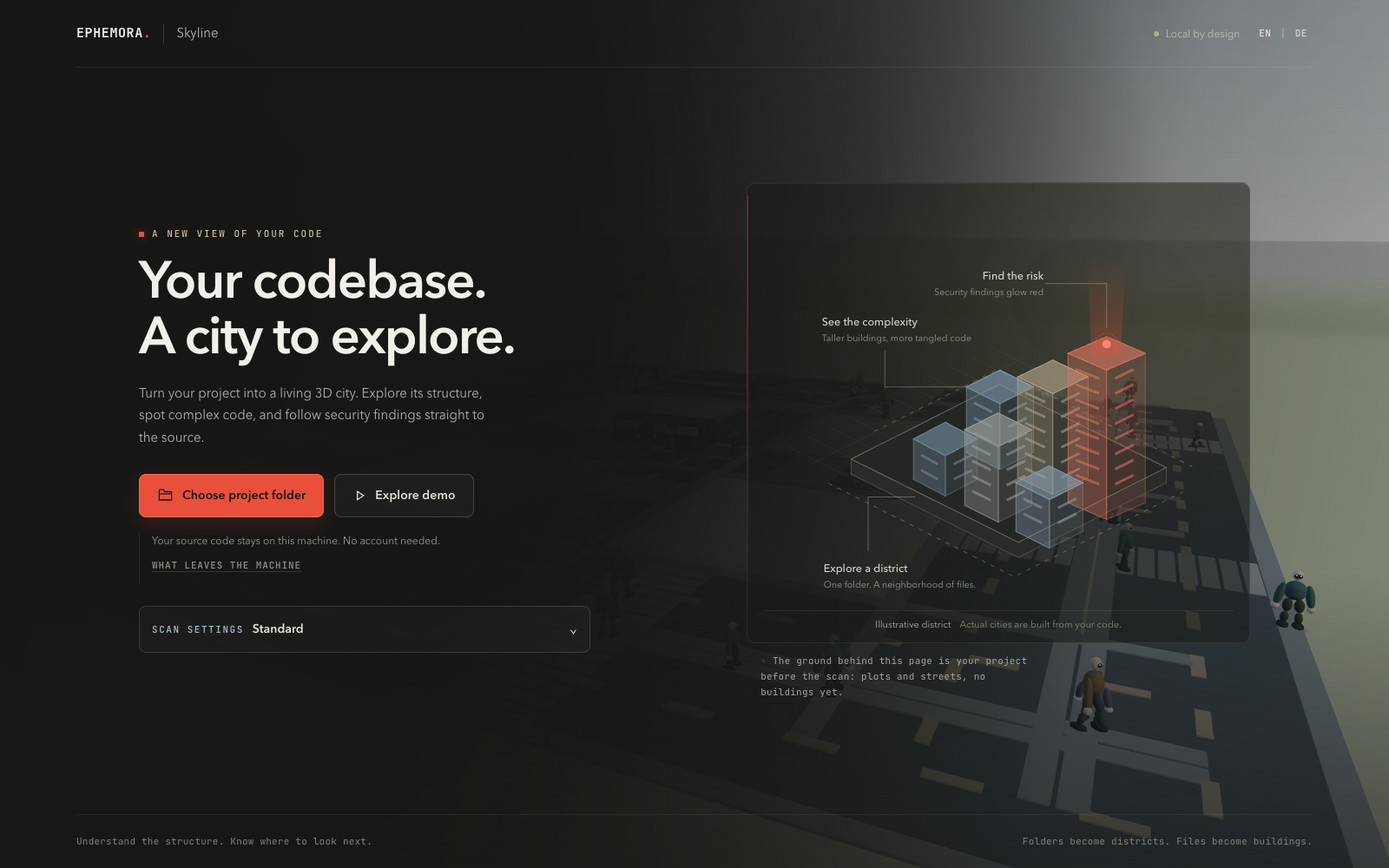
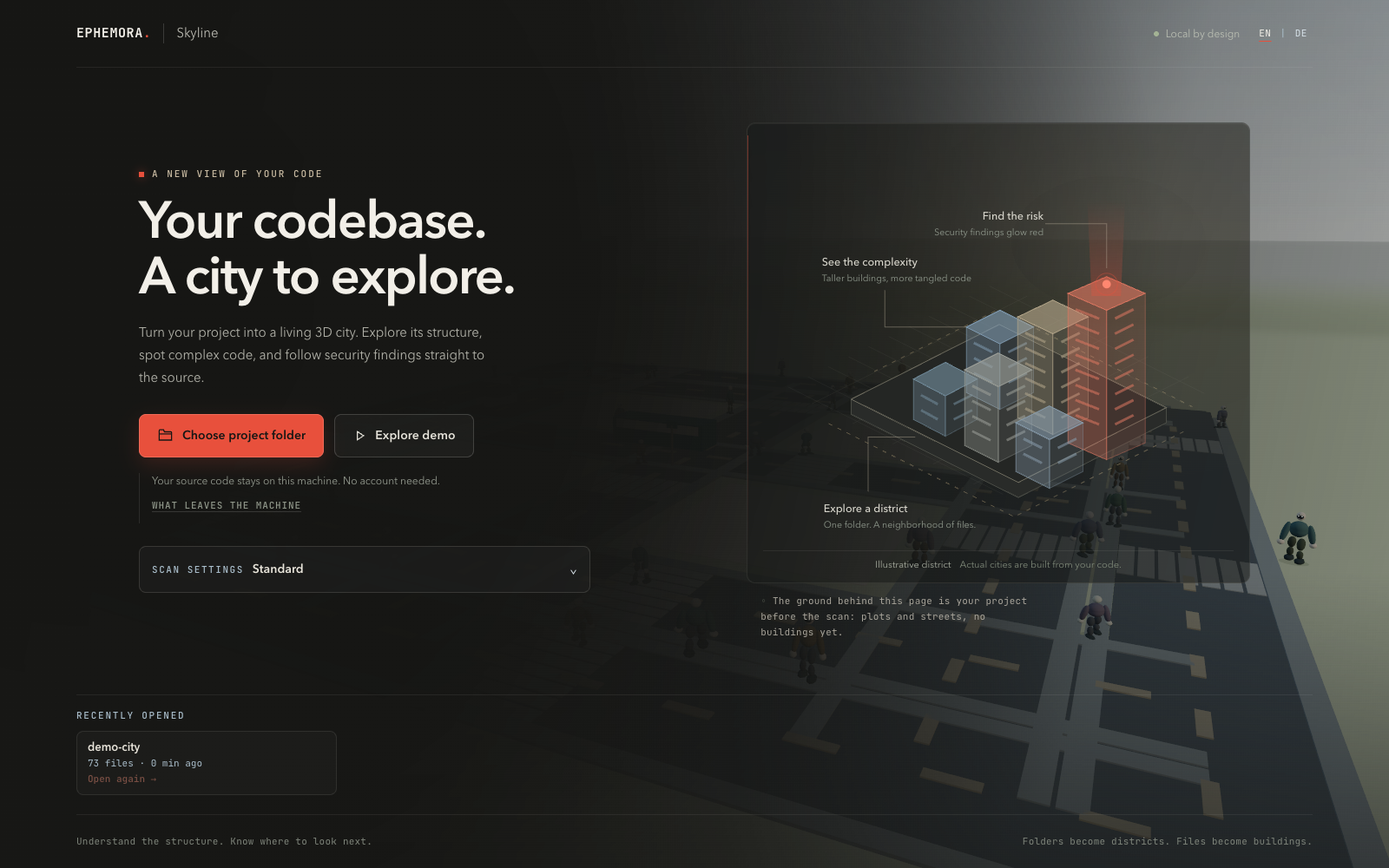
docs(surface): four claims the reader could not check are closed, two are made exact
The public surface was re-read line by line and every number traced to an
artifact. What did not hold:

- `hero.png` promised the row of the last city this browser opened and showed
  none — the shot had been taken on cleared storage. Re-shot after a real visit,
  so the frame now carries "RECENTLY OPENED · demo-city · 73 files · 0 min ago".
- The `.gitignore` pair was 16,711 against 550, measured on a tree that has since
  moved. Re-measured with the client's own skip-list and shape rule: **17,360**
  source-shaped files on disk, **392** the project calls source, 262 MB against
  3.4 MB. The stale pair was repeated in five places — README, CHANGELOG twice,
  two code comments and `.gitignore` itself — and all five now say the same.
- "225 rules" for the Semgrep registry had no artifact in this tree, only a
  comment repeating the number. The count is the registry's answer on the day of
  the scan; the licence is the reason it is not shipped, and that is what the
  sentence says now.
- The architecture block named a `Triage` component that is not a file, listed
  `sarif` and `result` under `routes/` where they are handlers of the index, and
  left `agent.ts` and `scripts/first-drive.mjs` unnamed.

Made exact: the guard sentence said "the two routes that execute anything" while
five routes carry the refusal, and the API table missed the two staged-copy
routes the privacy section already names — its row count is eighteen now, and
[…]

diff --git a/backend/tests/rule-packs.test.ts b/backend/tests/rule-packs.test.ts
@@ -18,8 +18,9 @@ import { existsSync, mkdirSync, writeFileSync } from "fs";
 /**
  * #41 — Regel-Packs.
  *
- * Der Aufhänger war gemessen: `semgrep --config p/security-audit` lädt 225
- * Regeln während des Scans von semgrep.dev, und die Semgrep Rules License v1.0
+ * Der Aufhänger ist eine Lizenz, keine Zahl: `semgrep --config p/security-audit`
+ * lädt seine Regeln während des Scans von semgrep.dev — wie viele an welchem Tag,
+ * das beantwortet die Registry, kein Artefakt in diesem Baum —, und die Semgrep Rules License v1.0
  * sagt dazu: "This license does not allow you to distribute the rules, or to
  * make them available to others as a service." Ein Bundling dieser Packs ins
  * Programm wäre also kein Formeldetail, sondern ein Verstoß. Gebündelt wird
@@ -149,7 +150,7 @@ describe("Regel-Pack ephemora-core (#41)", () => {
     expect(withPack.config.rulePacks).toEqual(["ephemora-core"]);
     expect(semgrepRuleDirs(withPack.config.rulePacks)[0]).toContain("ephemora-core");
 
-    // Offline ohne Pack: semgrep würde 225 Regeln von semgrep.dev ziehen
+    // Offline ohne Pack: semgrep würde seine Regeln von semgrep.dev ziehen
     process.env.SKYLINE_OFFLINE = "1";
     try {
       expect(resolveConfig().config.tools.semgrep).toBe(false);

diff --git a/backend/src/services/security/rule-packs.ts b/backend/src/services/security/rule-packs.ts
@@ -8,10 +8,12 @@ import type { FindingCategory } from "../../models/index.js";
  * Rule packs — a named, versioned bundle of semgrep rules that a scan can be
  * pointed at.
  *
- * The reason this exists is a measured one: `semgrep --config p/security-audit`
- * downloads 225 rules from semgrep.dev *during the scan*, and the Semgrep Rules
- * License v1.0 says in as many words "This license does not allow you to
- * distribute the rules, or to make them available to others as a service." So
+ * The reason this exists is a licence, not a count: `semgrep --config
+ * p/security-audit` fetches its rules from semgrep.dev *during the scan* — how
+ * many, on which day, is the registry's answer and no file in this repository
+ * can show it — and the Semgrep Rules License v1.0 says in as many words "This
+ * license does not allow you to distribute the rules, or to make them available
+ * to others as a service." So
  * the registry packs are not ours to ship. What we ship is rules we wrote and
  * own, tested against positive and negative fixtures, and a second root where
  * a user can put packs they fetched themselves.

diff --git a/frontend/tests/local-gitignore.test.tsx b/frontend/tests/local-gitignore.test.tsx
@@ -3,9 +3,10 @@
  * The folder's own .gitignore decides what is project source — before anything
  * is counted against the file cap.
  *
- * Measured on this repository: a scan of its own folder offered 16,711 source-
- * shaped files and 242 MB, of which 16,161 sat in local tooling folders the
- * project's .gitignore sets aside; the project itself is 550 files and 13,9 MB.
+ * Measured on this repository on 2026-10-12, with the walk rules the shipped
+ * client carries: a scan of its own folder offered 17,360 source-shaped files
+ * and 262 MB, of which 16,968 sat in local tooling folders the
+ * project's .gitignore sets aside; the project itself is 392 files and 3.4 MB.
  * The backend already skipped those paths, so the cap refused a folder for
  * files the scan would never have read. These checks hold the two pickers to
  * the same answer, because a folder that costs 31 s of reading in one picker

diff --git a/backend/tests/beleg-02-api-and-staging.test.ts b/backend/tests/beleg-02-api-and-staging.test.ts
@@ -30,8 +30,16 @@ describe("the API table (README.md:212-230)", () => {
     (m) => ({ method: m[1]!.toUpperCase(), path: m[2]! }),
   );
 
-  it("names fifteen routes, as many as the table has rows", () => {
-    expect(rows.length).toBe(16);
+  /**
+   * The count is the table's own shape, not a fact about the server — the two
+   * cases below are what prove the rows are the right ones, in both directions.
+   * It is pinned because a document that quietly grows a third direction (more
+   * rows than routes, or routes with no row) is the failure this table exists
+   * to prevent. 2026-10-12: the two staged-copy routes were named in the
+   * privacy section but had no row here; they have one now.
+   */
+  it("names eighteen routes, as many as the table has rows", () => {
+    expect(rows.length).toBe(18);
   });
 
   it("lists only routes the server actually registers", () => {

diff --git a/frontend/src/config/gitignore.ts b/frontend/src/config/gitignore.ts
@@ -3,9 +3,10 @@
  *
  * Why it lives here too: the browser walks the folder first, and a folder that
  * git does not track still costs a `File` object and a slot against the file
- * cap. Measured on this repository: 16,711 candidate files and 242 MB were
- * offered for a project of 550 files and 13,9 MB, because 14,037 of them sat in
- * local tooling folders the project's .gitignore sets aside. The backend
+ * cap. Measured on this repository on 2026-10-12 with the walk rules below:
+ * 17,360 candidate files and 262 MB were offered for a project of 392 files and
+ * 3.4 MB, because 16,968 of them sat in local tooling folders the project's
+ * .gitignore sets aside. The backend
  * already skips those paths; counting them first is what made the cap refuse a
  * folder the scan would have read happily.
  *

diff --git a/frontend/src/hooks/useLocalAnalysis.ts b/frontend/src/hooks/useLocalAnalysis.ts
@@ -234,8 +234,8 @@ function firstIgnoredAncestor(ignores: IgnoreMatcher, rel: string): string | nul
  * the file — that is what makes the cap answerable before 31 s of reading.
  *
  * The .gitignore answer comes first, because it is the folder's own statement
- * about what is not its source: measured on this repository, 16,161 of 16,711
- * candidates sat in local tooling folders the project already sets aside.
+ * about what is not its source: measured on this repository on 2026-10-12, 16,968
+ * of 17,360 candidates sat in local tooling folders the project already sets aside.
  */
 function classifyCandidate(
   rel: string,

diff --git a/README.md b/README.md
@@ -13,6 +13,8 @@
 
 **Your local codebase, rendered as a living 3D city in daylight.** Point it at a folder and watch it rise: folders become districts, files become buildings, a taller building holds more tangled code, and a red beacon marks a security finding. Your source never leaves the machine. A desktop web application — phones are not supported and not planned.
 
+**To see it before you read any of this:** `git clone` this repository, `npm install`, `npm run dev`, open **http://localhost:3010** and press _Explore demo_. The exact commands, what each of the five gates checks and what the tool will not tell you are below.
+
 |                                                                                                                                                                             |                                                                                                                                                                                                                                                                                                                                                                                                                                                                                                                                   |
 | --------------------------------------------------------------------------------------------------------------------------------------------------------------------------- | --------------------------------------------------------------------------------------------------------------------------------------------------------------------------------------------------------------------------------------------------------------------------------------------------------------------------------------------------------------------------------------------------------------------------------------------------------------------------------------------------------------------------------- |
 | [![The finished demo city: six districts, the project panel, the map naming its own alarm count](docs/assets/demo-city-poster.png?v=2026-10-12)](docs/assets/demo-city.mp4) | **[Watch the 28-second clip](docs/assets/demo-city.mp4)** — one visit, filmed as it happens: the entry screen, the demo opened, the city assembling, the Security Tour flying finding to finding. No sound, no cuts, no sped-up frames; every pixel is drawn by the app on a laptop. The clip plays 28.5 s at 800 × 500 and 15 fps, 442 KB, one video stream and no audio track. The poster beside it is its own frame of the finished city, not a frame of the clip, and it carries its own measurements in `docs/UI_REVIEW.md`. |
@@ -35,7 +37,7 @@ Most security tooling is a list of findings you scroll. Ephemora Skyline makes a
 | Blue shield                | Test coverage, when an `lcov` report exists  |
 | Grey `#6b6a63` "unscanned" | No engine looked here — not a claim of clean |
 
-- **It builds in front of you.** Every visit starts on an unbuilt plot — its streets, kerbs and crossings are already drawn, and the Ephe's are already walking them. Pick a folder and the city assembles — roads, plots, buildings — while the citizens who do the construction explain what they are raising.
+- **It builds in front of you.** Every visit starts on an unbuilt plot — its streets, kerbs and crossings are already drawn, and the Ephe's are already walking them. The Ephe's are the city's small inhabitants: the ones who do the construction, and who say what they are raising while they raise it. Pick a folder and the city assembles — roads, plots, buildings — while they explain it.
 - **Scale-independent semantic zoom.** The overview draws one block per top-level folder — ten folders or ten thousand, the picture stays readable. Click into a block to open it as its own district. Files that are not drawn show honestly as a podium ("+N more files"), never silently dropped.
 - **Security Tour.** The camera flies finding to finding, highest risk first, with a plain-language explanation and a fix suggestion.
 - **Findings you can verify.** Every finding carries its file, its line, the line the rule matched with two lines either side read out of your copy of the file, and a link to the rule that fired. Open the file in your editor from the card. Each one also carries a fingerprint — rule, path, line and the (masked) line itself — so a verdict you record survives scanning the same folder again, and the same finding can be named in a report, in the city JSON and by an agent. A finding that moves to another line or into a renamed file counts as a new one, and says so.
@@ -87,7 +89,7 @@ The audit gate fails on every high or critical finding **except** those explicit
 
 ## Privacy model
 
-The backend binds to `127.0.0.1` by default, and the two routes that execute anything additionally refuse requests that a foreign web page sent (checked by `Origin` / `Sec-Fetch-Site`, so a random site you visit cannot make your local scanner run your tests). The table below is not decoration: the entry screen of the app renders the same list from the same declaration the backend obeys (`OUTBOUND_CALLS`), and a test fails if the two ever name different hosts. What that test pins is the host set — the wording of each row is written twice, so it can drift while the hosts still match. The browser asks nothing of the network that could reach past this machine before you do anything: the UI font ships inside the app, a separate test fails if the entry document ever references a third-party host, and what the entry screen does request — the copy footprint it prints — goes to the local backend over `127.0.0.1`. The newest-release lookup in the first row below is part of that silence: it runs only while the reader has switched it on in the More menu of a city, and that switch starts **off**.
+The backend binds to `127.0.0.1` by default, and the five routes that could do anything beyond answering a question — start a scan, cancel one, run a folder's own tests, purge the staged copies, verify a scan against a later one — additionally refuse requests that a foreign web page sent (checked by `Origin` / `Sec-Fetch-Site`, so a random site you visit cannot make your local scanner run your tests). The table below is not decoration: the entry screen of the app renders the same list from the same declaration the backend obeys (`OUTBOUND_CALLS`), and a test fails if the two ever name different hosts. What that test pins is the host set — the wording of each row is written twice, so it can drift while the hosts still match. The browser asks nothing of the network that could reach past this machine before you do anything: the UI font ships inside the app, a separate test fails if the entry document ever references a third-party host, and what the entry screen does request — the copy footprint it prints — goes to the local backend over `127.0.0.1`. The newest-release lookup in the first row below is part of that silence: it runs only while the reader has switched it on in the More menu of a city, and that switch starts **off**.
 
 When you pick a folder, the **browser** reads it and posts the contents to the local backend over `127.0.0.1`: your source is never uploaded and never sent to a third party — it crosses the loopback interface and stops there. What does leave the machine are lookups the scanners make for themselves, and those carry names, never code:
 
@@ -104,7 +106,7 @@ When you pick a folder, the **browser** reads it and posts the contents to the l
 
 `SKYLINE_OFFLINE=1` switches off the update check even for a reader who turned it on, the OSV check and the dependency check, and switches off Semgrep unless a local rule pack is selected — a pack that is already on your disk needs no download. It also closes the three paths a profile never asks about: **pip-audit** is skipped instead of resolving requirements against `pypi.org`, the **Semgrep Docker fallback** only runs on an image already cached locally instead of pulling one, and **Run test file** refuses to `npm ci` a staged copy that has no `node_modules`. With the switch set, nothing in the table above is reached. It is an environment variable, not a UI control yet. The city then reports what went missing through `scanProvenance` and paints those buildings the colour of ground no scanner looked at, instead of calling them clean.
 
-**What the staged copy is.** To scan a folder the backend writes it to `$TMPDIR/codecity-uploads/<id>` with owner-only permissions, and keeps it for 24 hours (override with `CODECITY_UPLOAD_DIR` / `CODECITY_UPLOAD_TTL_HOURS`) so the in-city test runner can execute your project's own tests from the city you are looking at. The folder picker sends `.git` too — up to 15 MB of it, in its own budget, trimmed in the browser before anything is posted — because churn, author districts and the deep profile's history scan are impossible without commit history. Local analysis is capped at **10,000 files / 150 MB / 2 MB per file**. What never joins a scan is counted rather than hidden: your project's own `.gitignore` sets its paths aside _before_ the cap is applied (measured on this repository — 16,711 source-shaped files on disk, 550 of them the project calls source), `node_modules` and build output are skipped, and the summary names every number it left out.
+**What the staged copy is.** To scan a folder the backend writes it to `$TMPDIR/codecity-uploads/<id>` with owner-only permissions, and keeps it for 24 hours (override with `CODECITY_UPLOAD_DIR` / `CODECITY_UPLOAD_TTL_HOURS`) so the in-city test runner can execute your project's own tests from the city you are looking at. The folder picker sends `.git` too — up to 15 MB of it, in its own budget, trimmed in the browser before anything is posted — because churn, author districts and the deep profile's history scan are impossible without commit history. Local analysis is capped at **10,000 files / 150 MB / 2 MB per file**. What never joins a scan is counted rather than hidden: your project's own `.gitignore` sets its paths aside _before_ the cap is applied (measured on this repository on 2026-10-12 by walking it with the client's own skip-list and source-shape rule, then again with the project's `.gitignore` pruning it: **17,360** source-shaped files on disk, **392** of them the project calls source; the kept half is the number the app itself prints when you point it at this checkout), `node_modules` and build output are skipped, and the summary names every number it left out.
 
 **What the saved city carries.** A finding stores the line it was found on plus a two-line code frame, and the result is served as JSON you can export and share. Credential values are erased to `‹hidden›` before a finding is kept, and the erasure does not trust the variable name: it masks `NAME = "…"` assignments _and_ known token shapes (GitHub, AWS, Slack, Google, Stripe, OpenAI, npm, JWT, private-key headers), because `const pat = "ghp_…"` in a test fixture is a real token behind an innocent name — that exact line is how we found the hole, in our own repository. The name stays, because the name is what tells you where to fix. Masking is not limited to secret findings: it runs on every frame at the scanner boundary, because a `console.log` one line above a password carries that password in its neighbour lines. `.env`, `.env.production` and friends are in the scan surface **because** of that masking, and are read as data — no complexity, no code-shape questions.
 
@@ -135,11 +137,11 @@ Your own patterns are supported too: up to 25 regular expressions with severity,
 
 The deep AST scan needs rules, and where those rules come from is a decision with a licence attached. The Semgrep Rules License v1.0 states: "This license does not allow you to distribute the rules, or to make them available to others as a service." So the registry stays what it always was — fetched by `semgrep` itself, by you, at scan time — and what ships in this repository is rules we wrote and own.
 
-| Pack                 | Where it lives                                                       | Rules | Licence                                                 |
-| -------------------- | -------------------------------------------------------------------- | ----- | ------------------------------------------------------- |
-| `ephemora-core`      | `backend/rules/ephemora-core/`                                       | 12    | Apache-2.0, same as the program — ours to ship and grow |
-| _(nothing selected)_ | `semgrep.dev`, during the scan                                       | 225   | Semgrep Rules License v1.0 — not redistributable        |
-| your own             | `~/.ephemora-skyline/rule-packs/<id>/` (or `CODECITY_RULE_PACK_DIR`) | any   | yours                                                   |
+| Pack                 | Where it lives                                                       | Rules                                                                  | Licence                                                 |
+| -------------------- | -------------------------------------------------------------------- | ---------------------------------------------------------------------- | ------------------------------------------------------- |
+| `ephemora-core`      | `backend/rules/ephemora-core/`                                       | 12                                                                     | Apache-2.0, same as the program — ours to ship and grow |
+| _(nothing selected)_ | `semgrep.dev`, during the scan                                       | not in this tree — the registry's own count, on the registry's own day | Semgrep Rules License v1.0 — not redistributable        |
+| your own             | `~/.ephemora-skyline/rule-packs/<id>/` (or `CODECITY_RULE_PACK_DIR`) | any                                                                    | yours                                                   |
 
 A pack is a directory with a `pack.json` manifest and rule YAML beside it. The manifest's `ruleCount` is checked against the files at load time, and a pack whose manifest lies is not offered at all. Scans select packs **by id**; a path is rejected, because a client-supplied directory would let the scanner read rules from anywhere on the machine.
 
@@ -182,8 +184,8 @@ Full detail in [`docs/ARCHITECTURE.md`](./docs/ARCHITECTURE.md), first run in [`
 Ephemora-Skyline/
 ├── backend/src/
 │   ├── server/            # Express app, loopback bind, local-only guard
-│   │   └── routes/        # analyze-local, status, job-progress, result/source,
-│   │                      # sarif, demo, health, tests, update-check
+│   │   └── routes/        # local-analyze, status, job-progress, source, demo,
+│   │                      # health, tests, agent (handoff + verify), update-check
 │   ├── services/
 │   │   ├── analyzer/      # pipeline: enumerate -> parse -> metrics -> aggregate
 │   │   └── security/      # scanner facade + adapters (regex, gitleaks, semgrep,
@@ -193,8 +195,8 @@ Ephemora-Skyline/
 │   └── utils/             # cityMapper (layout) + SARIF export
 ├── frontend/src/
 │   ├── city/              # layout, palette, types, geometry
-│   ├── components/        # 3D scene + HUD (CityScene, Building, InfoPanel,
-│   │                      # FindingsPanel, Minimap, SearchBar, Triage, ...)
+│   ├── components/        # 3D scene + HUD (CityScene, Building, ContextCard,
+│   │                      # InfoPanel, FindingsPanel, Minimap, SearchBar, ...)
 │   ├── config/            # scan profiles, finding categories, rule packs
 │   ├── editor/            # deep links into your editor, workspace root
 │   ├── findings/          # finding presentation and knowledge
@@ -205,7 +207,7 @@ Ephemora-Skyline/
 │   ├── prefs.ts           # language, graphics-lite, colour-blind mode
 │   └── reviews.ts         # triage state, per city
 ├── docs/                  # ARCHITECTURE, GETTING_STARTED, UI_REVIEW, assets/
-├── scripts/               # audit-gate, clone-stats
+├── scripts/               # audit-gate, clone-stats, first-drive
 └── .github/               # CI, issue and PR templates, dependabot
 ```
 
@@ -226,6 +228,8 @@ Ephemora-Skyline/
 | `GET  /api/result/:id/handoff`        | one finding per line, NDJSON, for a coding agent (`docs/AGENTS.md`) |
 | `POST /api/verify`                    | did the findings of one scan survive a later one?                   |
 | `GET  /api/rule-packs`                | the rule packs on this disk, and whether the offline switch is set  |
+| `GET  /api/footprint`                 | the staged copies: how many, how big, how long they stay            |
+| `POST /api/footprint/purge`           | delete the copies that are past their keep time                     |
 | `POST /api/tests/:id/run`             | run one of that city's own test files                               |
 | `GET  /api/tests/run/:runId`          | output of that run                                                  |
 | `GET  /api/update/check`              | the anonymous newest-release check                                  |

diff --git a/CHANGELOG.md b/CHANGELOG.md
@@ -75,8 +75,9 @@ were run on it as a whole.
 - **The browser reads your `.gitignore` before it counts.** The folder picker
   walked every path on disk and then refused the folder for being large, so a
   checkout with its own build output inside it could not be scanned at all:
-  measured on this repository, **16.711** source-shaped files on disk against
-  **550** the project itself calls source. The client now applies the same
+  measured on this repository on 2026-10-12 with the shipped walk rules,
+  **17,360** source-shaped files on disk against
+  **392** the project itself calls source. The client now applies the same
   matcher the backend parser uses — mirrored byte for byte between
   `frontend/src/config/gitignore.ts` and `backend/src/services/analyzer/gitignore.ts`,
   with a test on each side that fails if the two bodies stop being identical —
@@ -212,7 +213,7 @@ were run on it as a whole.
   of the pipeline, in the refusal text, and in the document that quotes them.
   The old pair was set before anyone had pointed the picker at a real checkout;
   with the `.gitignore` pruning running in front of the count, this repository is
-  550 files, and a mid-sized TypeScript service stops arriving as a refusal. The
+  392 source-shaped files, and a mid-sized TypeScript service stops arriving as a refusal. The
   two walls are one number on both sides, and a test says so.
   `backend/tests/upload-caps.test.ts`
 - **The colour-blind switch reaches the city.** Until now it stopped at the flat
